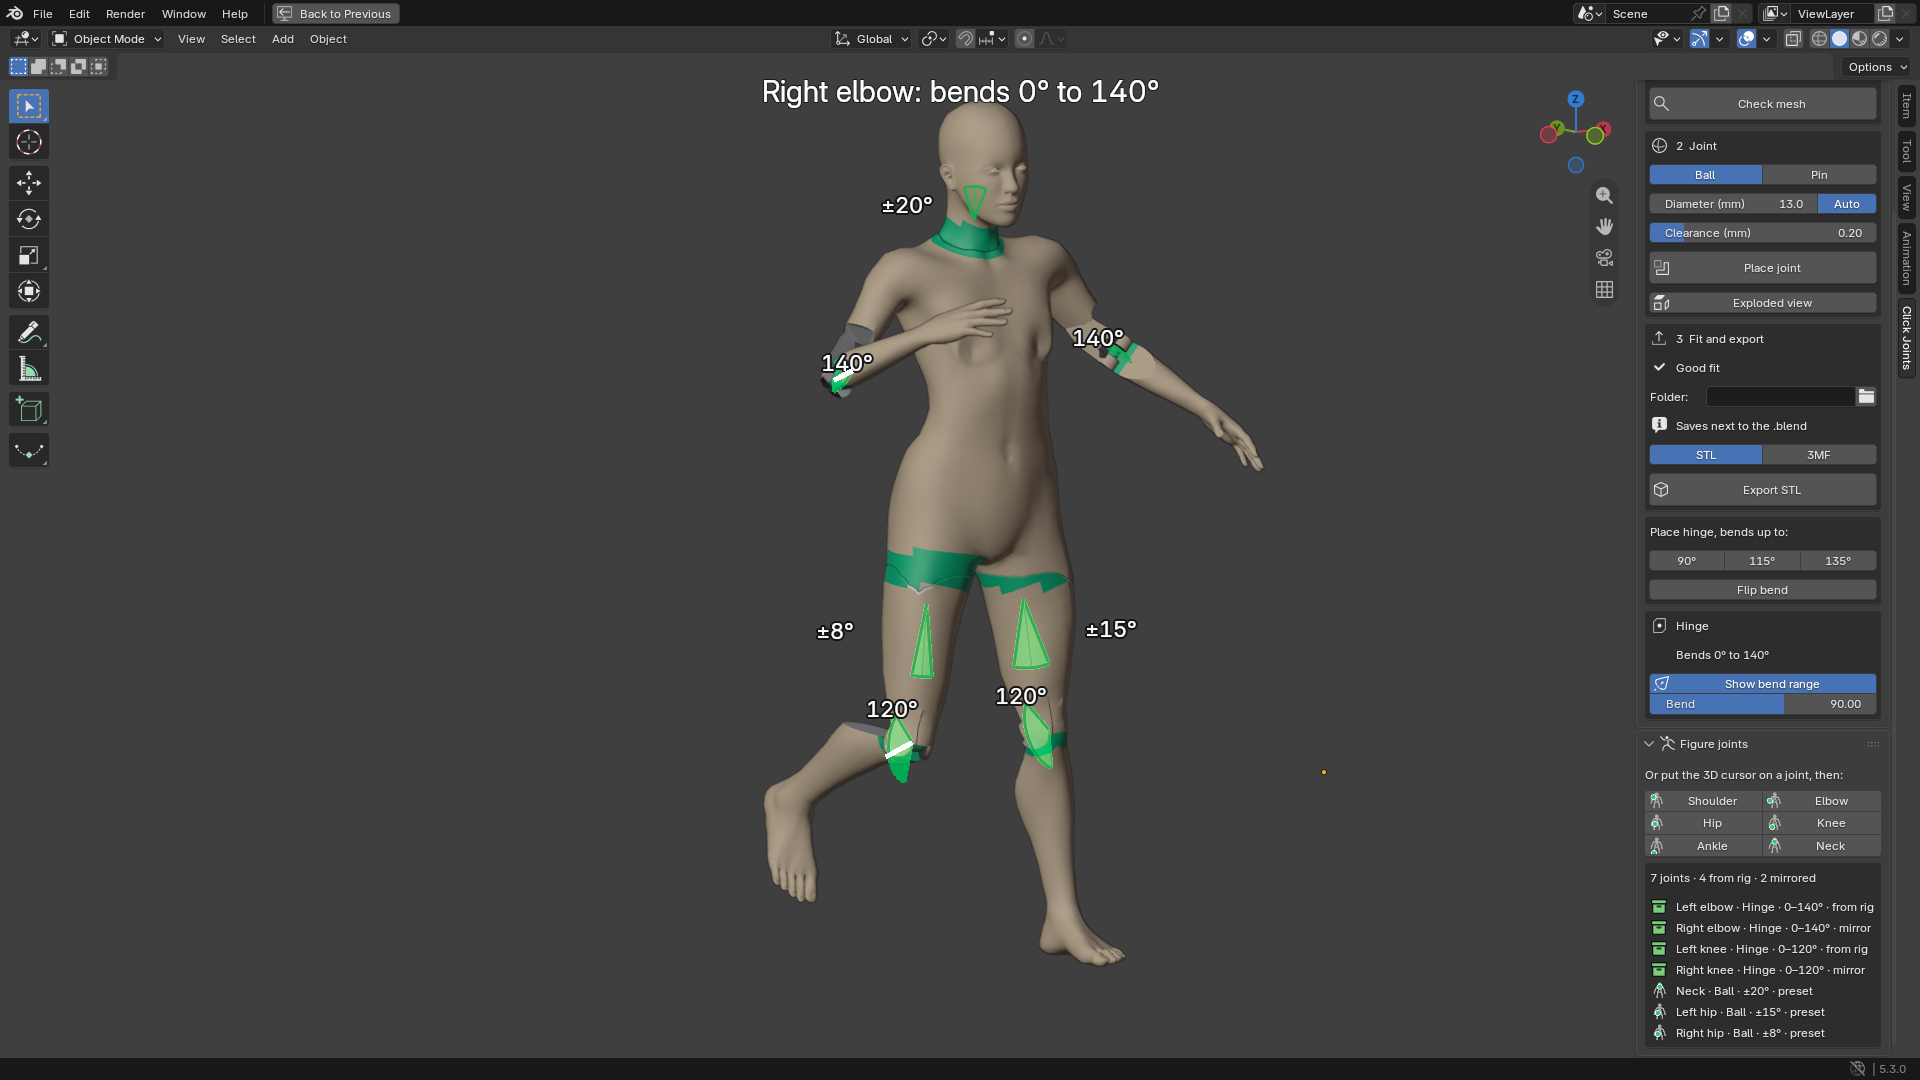
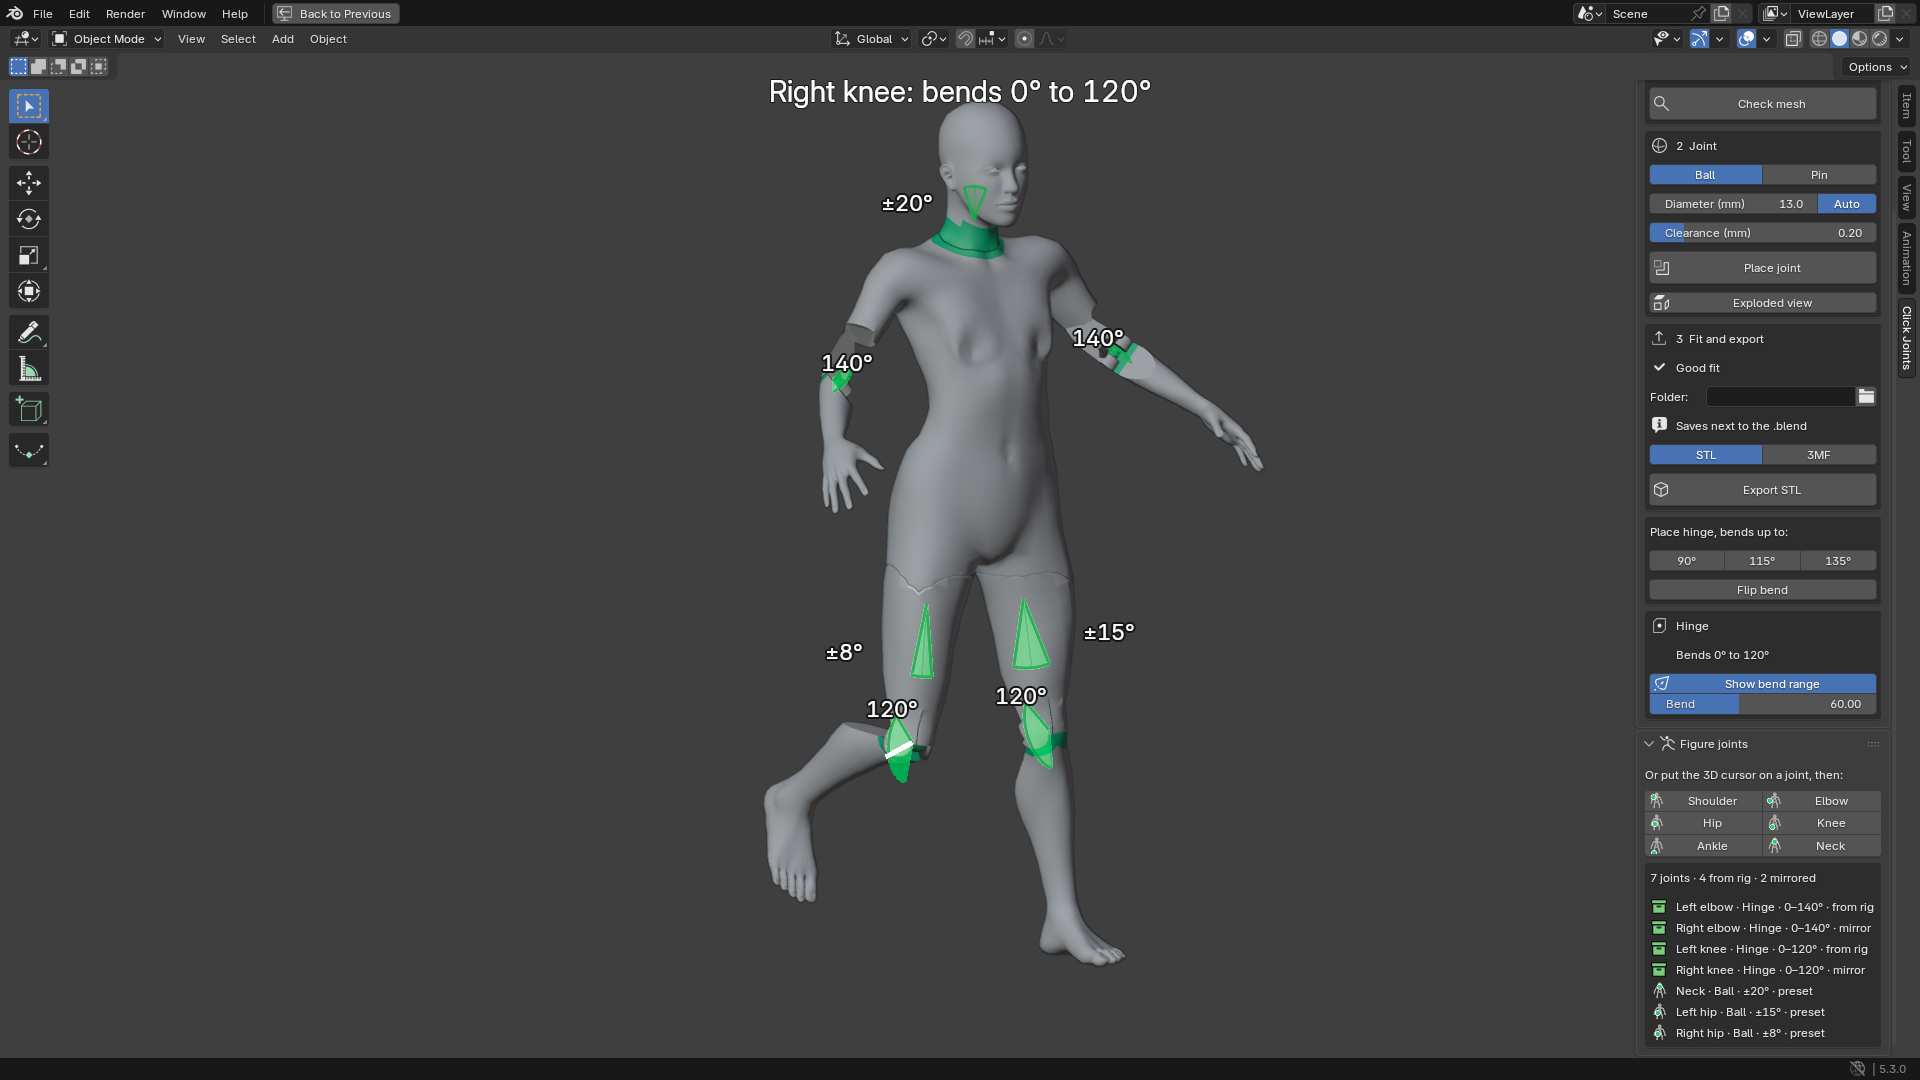
Ruben run 23: plaatje 19 na Daans moets van 05:30 (grijs PLA, gizmo en oorsprong uit, alleen de knie gebogen met paneel op de knie, heupen zonder band in dit beeld); blok boven de elleboog is echte vorm (wig 140), uitleg in ontwerp; lokaal 5.3.0 MENS BEELD OK
Claude-Session: https://claude.ai/code/session_01RMWUyhNSMr1SdG1couKmhb

diff --git a/producten/blender-gewrichten/e2e/scherm_mens.py b/producten/blender-gewrichten/e2e/scherm_mens.py
@@ -28,8 +28,16 @@ exec(compile(_src, "proef_mens.py", "exec"), M)
 A = M["A"]
 
 staat = {}
-BEUK = (0.80, 0.62, 0.43, 1.0)  # matte lichte beukenhoutkleur (Daan 17 nov moet 3)
-BUIG = {"Right elbow": 90.0, "Right knee": 60.0}  # Daan 17 nov moet 2: een elleboog ±90, een knie ±60, de rest recht
+# Daan 17 nov ±05:30 moet 2: lichtgrijs mat als geprinte PLA, #B9BEC4 (sRGB), hier lineair voor diffuse_color.
+PLA = tuple(((c / 255.0 + 0.055) / 1.055) ** 2.4 for c in (0xD2, 0xD6, 0xDB)) + (1.0,)
+# Iets lichter dan #B9BEC4 gekozen: het studiolicht van de 3D-weergave maakt het een stap donkerder (run 23 gemeten:
+# #B9BEC4 kwam als ±#8A8D90 in beeld). Op het scherm leest het nu als lichtgrijs.
+# Daan 17 nov ±05:30 moet 1: een gebogen elleboog toont het blok van de knokkel en open snijvlakken (een klikscharnier
+# op een dunne arm van 9 mm is een echt mechaniekje, geen huid die om het gewricht sluit). Zijn uitweg: buig in dit
+# beeld alleen de knie, de rest recht. Dan vertellen beeld en paneel hetzelfde (moet 5): het paneel staat op de knie.
+BUIG = {"Right knee": 60.0}
+if os.environ.get("CJ_BUIG"):  # bijvoorbeeld "Right knee:60" (volgorde telt: het laatste lid staat in het paneel)
+    BUIG = {d.split(":")[0]: float(d.split(":")[1]) for d in os.environ["CJ_BUIG"].split(",")}
 
 
 def etalagepop(ob):
@@ -47,12 +55,56 @@ def etalagepop(ob):
         c.y = c.y + (-2.5 - c.y) * w
     for f in ob.data.polygons:
         f.use_smooth = True
-    mat = bpy.data.materials.new("beuk")
-    mat.diffuse_color = BEUK
-    mat.roughness = 0.9
+    mat = bpy.data.materials.new("pla_grijs")
+    mat.diffuse_color = PLA
+    mat.roughness = 1.0
+    mat.metallic = 0.0
     ob.data.materials.clear()
     ob.data.materials.append(mat)
     ob.data.update()
+
+
+def heup_zonder_band(afstand=22.0):
+    """Daan 17 nov ±05:30 moet 3, zijn uitweg: de heupband heeft op een figuur een zaagtand (de snede van de kogel
+    maakt lange vlakken, en de band kleurt per vlak). In dit beeld de heupen als kogel zonder band; de ±8° en ±15°
+    blijven. Alleen kleur in dit schermbeeld (vlakken binnen `afstand` mm van een heupsnede terug naar het materiaal
+    van het dichtstbijzijnde vlak buiten de band); de add-on zelf kleurt de band zoals altijd (CJ_HEUPBAND=1)."""
+    import numpy as np
+    from mathutils.kdtree import KDTree
+    obs = [o for o in bpy.context.scene.objects if o.type == "MESH"]
+    heup = [Vector(o["cj_snijpunt"]) for o in obs if "hip" in str(o.get("cj_naam", "")).lower() and "cj_snijpunt" in o]
+    teruggezet = 0
+    for o in obs:
+        vak = o.get("cj_ring_vak")
+        me = o.data
+        if vak is None or not heup or not len(me.polygons):
+            continue
+        n = len(me.polygons)
+        idx = np.empty(n, dtype=np.int32)
+        me.polygons.foreach_get("material_index", idx)
+        c = np.empty(n * 3)
+        me.polygons.foreach_get("center", c)
+        c = c.reshape(n, 3)
+        mw = np.array(o.matrix_world)
+        cw = c @ mw[:3, :3].T + mw[:3, 3]
+        dicht = np.zeros(n, dtype=bool)
+        for h in heup:
+            dicht |= np.linalg.norm(cw - np.array(h), axis=1) <= afstand
+        terug = (idx == int(vak)) & dicht
+        buiten = np.nonzero(idx != int(vak))[0]
+        if not terug.any() or not len(buiten):
+            continue
+        boom = KDTree(len(buiten))
+        for i, j in enumerate(buiten):
+            boom.insert(Vector(c[j]), i)
+        boom.balance()
+        for j in np.nonzero(terug)[0]:
+            idx[j] = idx[buiten[boom.find(Vector(c[j]))[1]]]
+        me.polygons.foreach_set("material_index", idx)
+        me.update()
+        teruggezet += int(terug.sum())
+    staat["heupband_weg"] = teruggezet
+    log(f"MENS heupband weg in dit beeld: {len(heup)} heupen, {teruggezet} vlakken")
 
 
 def buig():
@@ -61,7 +113,7 @@ def buig():
     delen = {o.get("cj_naam"): o for o in bpy.context.scene.objects
              if o.get("cj_deel") == "B" and o.get("cj_figuur") and o.get("cj_soort") == "SCHARNIER"}
     gebogen = {}
-    for naam in ("Right knee", "Right elbow"):  # elleboog aan de kant van de kijker, zijn waaier staat niet achter de hand
+    for naam in BUIG:  # het laatste lid blijft actief en staat in het paneel
         b = delen.get(naam)
         if b is None:
             continue
@@ -69,6 +121,8 @@ def buig():
         wm.cj_scharnier_pose = BUIG[naam]
         gebogen[naam] = round(float(b.get("cj_pose_graden", 0.0)), 1)
     staat["gebogen"] = gebogen
+    if os.environ.get("CJ_HEUPBAND", "0") != "1":
+        heup_zonder_band()
     log(f"MENS gebogen {gebogen} delen={sorted(k for k in delen if k)}")
 
 
@@ -113,8 +167,11 @@ def rustig():
         bpy.ops.screen.screen_full_area()
     venster, gebied, _ = zijbalk()
     ov = gebied.spaces.active.overlay
-    for k in ("show_floor", "show_axis_x", "show_axis_y", "show_axis_z", "show_cursor", "show_text", "show_outline_selected"):
+    for k in ("show_floor", "show_axis_x", "show_axis_y", "show_axis_z", "show_cursor", "show_text", "show_outline_selected",
+              "show_object_origins"):
         setattr(ov, k, False)
+    # Daan 17 nov ±05:30 moet 4: navigatiegizmo en de knoppen rechtsboven (zoom, hand, camera, raster) uit.
+    gebied.spaces.active.show_gizmo_navigate = False
 
 
 def kijk():

diff --git a/producten/blender-gewrichten/ontwerp-1.1.md b/producten/blender-gewrichten/ontwerp-1.1.md
@@ -178,3 +178,12 @@ Stap 2 en 3: eisen volgen bij de bouw van stap 2 (Rigify-figuur, Mixamo-figuur, 
 - **Heup- en nekbanden smal (in Pro):** oorzaak gemeten in de code: `kleur.in_ring` (gratis deel) kleurt elk vlak binnen 3 mm van het snijvlak, over het hele vlak. Bij een los lid is dat de naad; bij een figuur loopt dat vlak door bekken en schouders, dus kleurde het lijf een brede plak mee. Nieuw `betaald/figuur_ring.py`, aangeroepen in `figuur.plaats_gewricht` na elke kogel op een figuur: straal van het lid gemeten op deel B (punten binnen 3 mm van het snijvlak), ringvlakken verder dan die straal plus 1,5 mm terug naar het materiaal van het dichtstbijzijnde vlak buiten de ring (KD-boom, dus ook goed bij figuren met meer materialen). Gratis deel ongewijzigd. Nekband is nu een smalle kraag; heupbanden veel smaller, de bovenrand blijft wat hoekig (lange vlakken van de snede).
 - **Nog niet gedaan:** de kop `One click. Every joint. How far it bends.` De kop in de weergave is die van het actieve scharnier (`Right elbow: bends 0° to 140°`), een eerlijke regel van de add-on; een reclamekop hoort niet in de add-on. Voorstel: als onderschrift op het winkelplaatje zelf, apart van het schermbeeld.
 - Lokaal 5.3.0: plaatje 19 (`MENS BEELD OK`, `MENS KOGELS OK`), plaatje 16 (`RIG BEELD OK`), 17 (`ARMEN BEELD OK`), 15 (`FIGUUR OK`) zonder de smalle ring; met de smalle ring plaatje 19 OK en `toetsen_mens`, `toetsen_figuur`, `toetsen_rig`, `toetsen_rig_armen`, `toetsen_rigify` 0 FOUT. `toetsen_meshy_rig` en 4.2 en 5.2: CI.
+
+### Run 23 (17 nov ±06:05 tot 06:45 UTC, Ruben): Daans vijf moets van 05:30 op plaatje 19
+- Alleen `e2e/scherm_mens.py` veranderd (het schermbeeld), niets in de add-on. Lokaal 5.3.0: `MENS BEELD OK`, `MENS KOGELS OK`.
+- **Moet 2, grijs PLA:** één mat materiaal, roughness 1, metallic 0. #B9BEC4 kwam in het studiolicht van de 3D-weergave als ±#8A8D90 in beeld (te donker), dus het materiaal is #D2D6DB; op het scherm leest het als lichtgrijs. Gezicht niet gladder gemaakt (Daan: met grijs goed zo).
+- **Moet 4:** `show_gizmo_navigate` uit (gizmo en de vier knoppen rechtsboven weg), `show_object_origins` uit (het oranje puntje was de oorsprong van een deel). `Back to Previous` blijft: dat is de knop van Ctrl+Spatie (moet 1 van 04:55); zonder die stap komen tijdlijn en eigenschappen terug.
+- **Moet 1 en 5, Daans uitweg:** alleen de rechterknie gebogen (60°), ellebogen recht. Het paneel staat op die knie (`Right knee: bends 0° to 120°`, `Bend 60.00`), dus beeld en paneel zeggen hetzelfde. Waarom niet de elleboog: van dichtbij bekeken (vier kijkhoeken) is een gebogen klikscharnier op een arm van 9 mm een zichtbaar mechaniekje (knokkel, sleuf, stopvlakken), geen huid die sluit. Dat los je niet op met een kijkhoek.
+- **Gevonden, echte vorm, niet alleen beeld:** het "grijze blok" boven de elleboog zit er ook bij een rechte elleboog. Met willekeurige kleur per deel nagekeken: het hoort bij deel A (bovenarm en romp). Oorzaak volgens de code: bij een stop van 140° staat het stopvlak van A maar 20° van de as van de bovenarm, dus de wig schaaft de voorkant van de bovenarm af tot de rand van het omhulsel H (`een_lid`, tot `diepte` van het snijvlak). Waar H ophoudt, houdt de wig abrupt op: daar zie je een trede met een plat vlak. Dat zit ook in de STL. Op knieën (120°, dikker lid) valt het minder op. Oplossing voor volgende run (in Pro, `scharnier_vorm`): de wig van A alleen zo ver laten lopen als het onderste lid echt zwaait (straal van het lid gedeeld door tan(alfa), plus speling), met een schuine uitloop in plaats van een trede. Toets: geen vlak van A met een normaal langs de lidas boven het snijvlak, en de beweegproef haalt nog 140.
+- **Moet 3, Daans uitweg:** in dit beeld de heupen als kogel zonder band (`heup_zonder_band`, alleen kleur, vlakken binnen 22 mm van een heupsnede terug naar het materiaal ernaast; `CJ_HEUPBAND=1` laat de band zien). De ±8° en ±15° blijven. De add-on zelf kleurt de band zoals altijd. Er blijft een dunne lichte naadlijn waar de kogel snijdt (vlak gearceerde snedevlakken naast gladde huid).
+- Niet gedaan (kan-punten): het nekkegeltje staat nog bij de wang, `±8°` en `±15°` niet verschoven, `Back to Previous` blijft.
